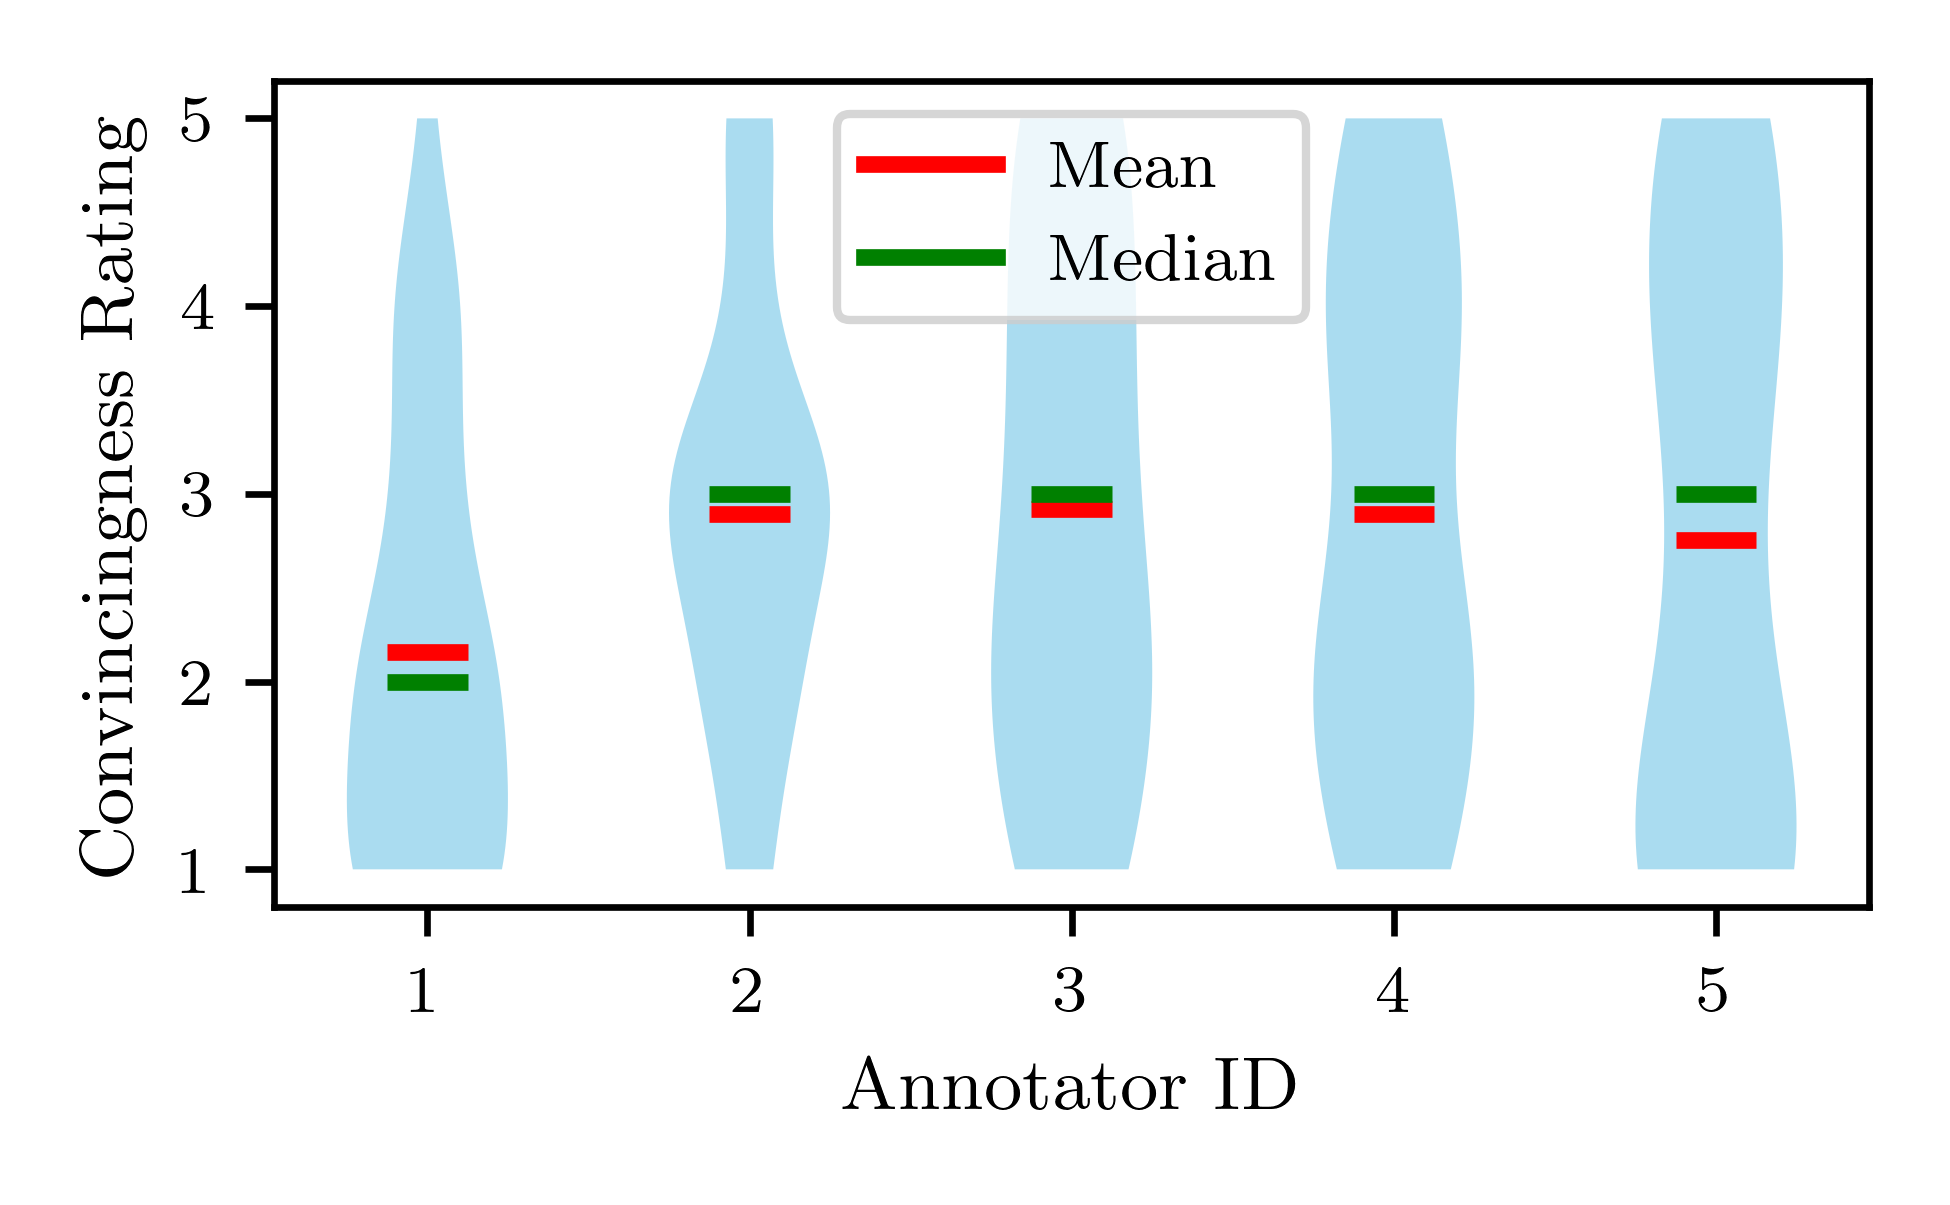
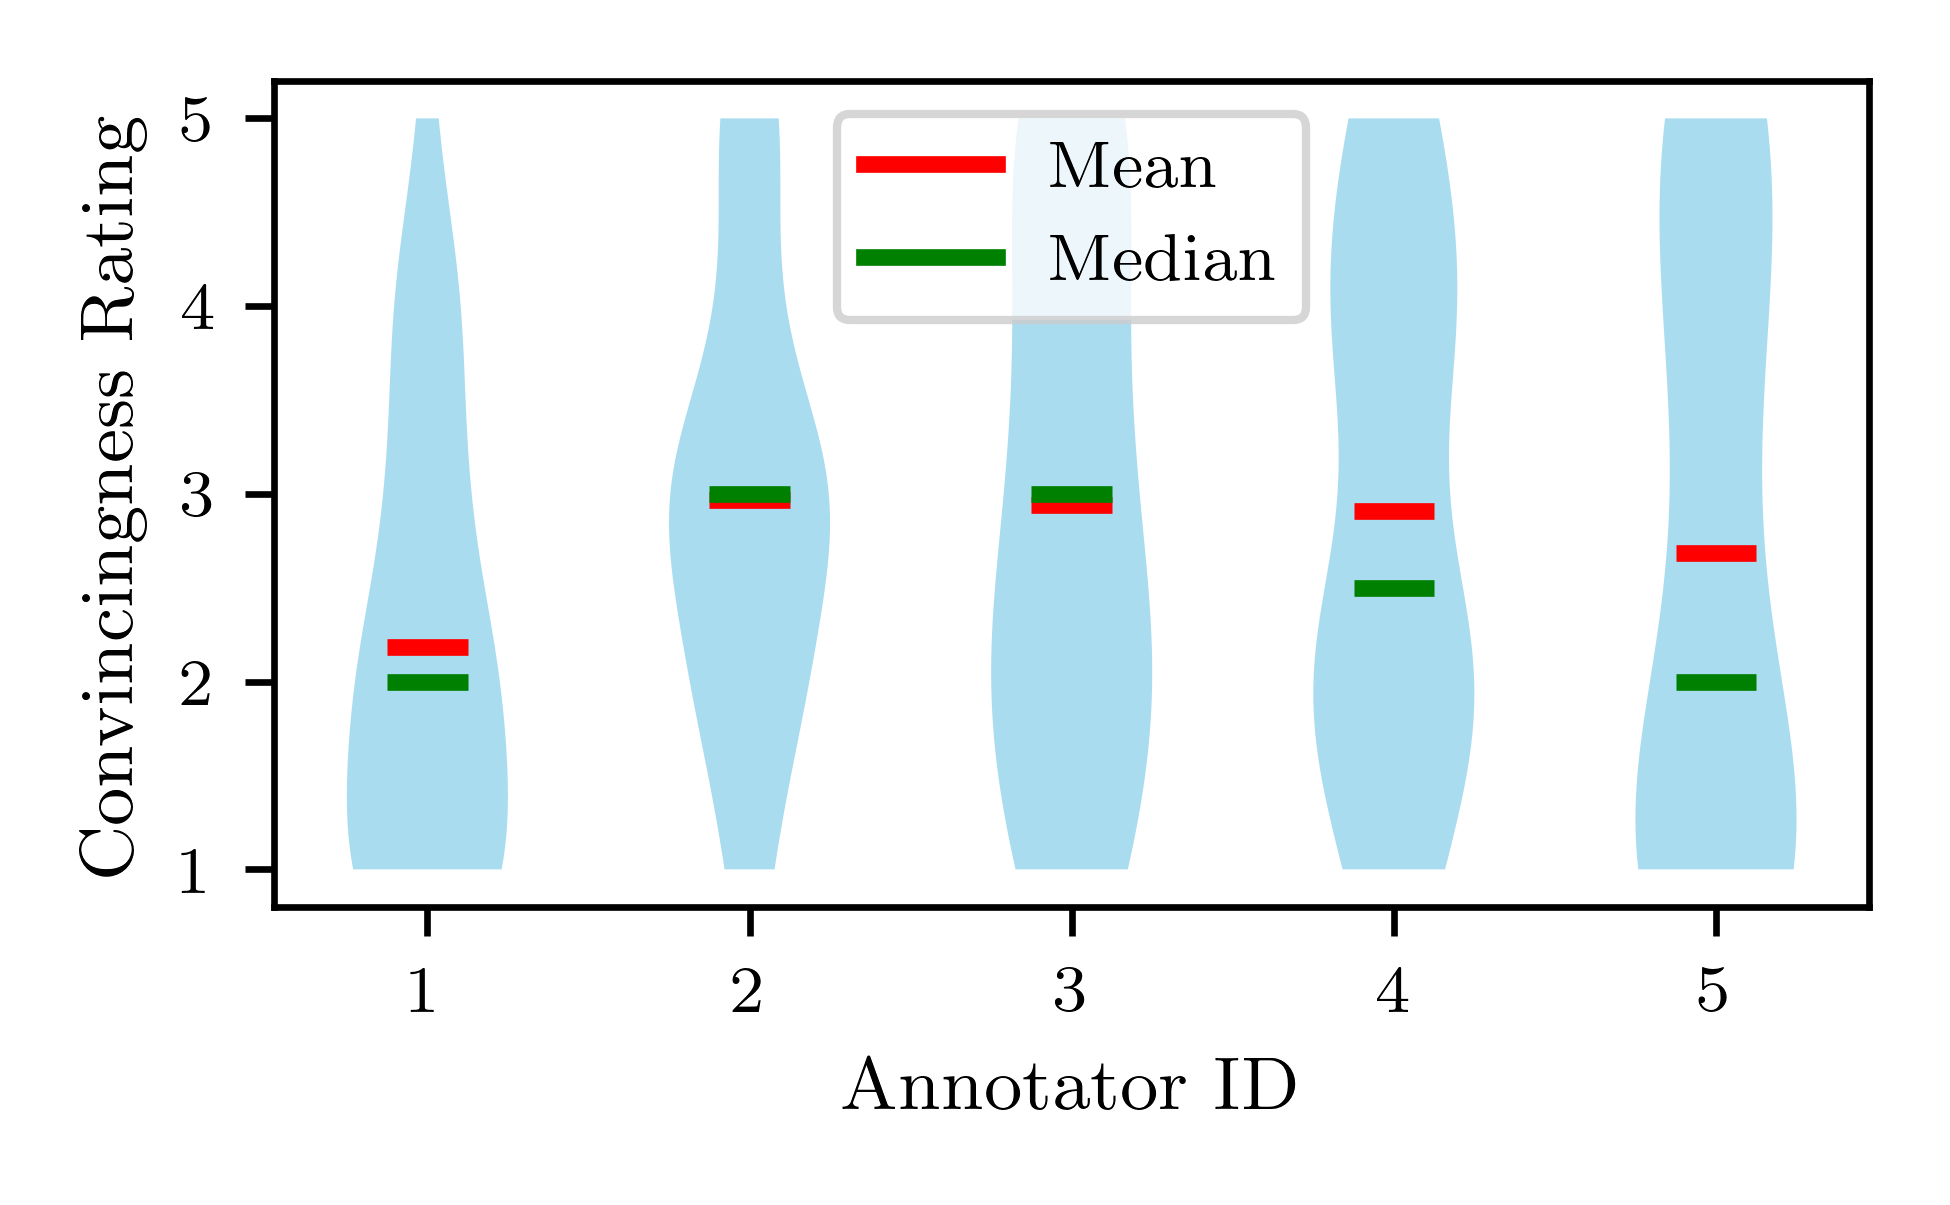
Parametrization of context_ids that should be excluded.

diff --git a/evaluation/plot.py b/evaluation/plot.py
@@ -6,6 +6,7 @@ import pandas as pd
 import scienceplots
 import krippendorff
 from typing import Optional
+import params
 
 from results import AnnotationEvaluator
 import numpy as np
@@ -202,7 +203,6 @@ def plot_unjustified_distribution(results_table, save_path=None):
     else:
         plt.show()
 
-
 def plot_comparison(results_table, llm_results_table, save_path=None):
     """
     Plot a comparison between justified (context_id=1) and unjustified (context_version=2..7) ratings.
@@ -260,7 +260,7 @@ def plot_llm_annotator_agreement_heatmap(human_table, llm_table, save_path=None)
     Requires the AnnotationEvaluator class with compute_agreement_score(annotator_col, model_col).
     """
     # Prepare labels: "Human Median" + LLM names
-    labels = ["Annotations"] + list(MODELS.keys())
+    labels = ["Human"] + list(MODELS.keys())
     n = len(labels)
 
     # Prepare ratings for each source
@@ -272,7 +272,7 @@ def plot_llm_annotator_agreement_heatmap(human_table, llm_table, save_path=None)
     for llm_id in MODELS.values():
         sources.append(llm_table[llm_id])
 
-    # Compute agreement scores for all pairs (including human median)
+    # Compute agreement scores for all pairs (including human median) using Spearman correlation
     heatmap_matrix = np.zeros((n, n))
     for i in range(n):
         for j in range(n):
@@ -280,10 +280,9 @@ def plot_llm_annotator_agreement_heatmap(human_table, llm_table, save_path=None)
             ratings_j = sources[j]
             mask = ratings_i.notna() & ratings_j.notna()
             if mask.sum() > 0 and j <= i:
-                agreement = krippendorff.alpha(
-                    reliability_data=np.vstack((ratings_i[mask], ratings_j[mask])),
-                    level_of_measurement='ordinal'
-                )
+                # Spearman correlation
+                corr, _ = stats.spearmanr(ratings_i[mask], ratings_j[mask])
+                agreement = corr
             else:
                 agreement = np.nan
             heatmap_matrix[i, j] = agreement
@@ -291,7 +290,7 @@ def plot_llm_annotator_agreement_heatmap(human_table, llm_table, save_path=None)
     df_heatmap = pd.DataFrame(heatmap_matrix, index=labels, columns=labels)
 
     fig, ax = prepare_plotting()
-    sns.heatmap(df_heatmap, annot=True, fmt=".2f", cmap="YlGnBu", ax=ax, cbar_kws={"label": "Agreement Score"}, vmin=0, vmax=1)
+    sns.heatmap(df_heatmap, annot=True, fmt=".2f", cmap="YlGnBu", ax=ax, cbar_kws={"label": r"Rank Correlation $\rho$"}, vmin=0, vmax=1)
     plt.tight_layout()
 
     if save_path:
@@ -423,10 +422,70 @@ def plot_context_type_distribution_per_annotator(human_table, llm_table=None, sa
     ax.set_ylim(0.5, 5.5)
     ax.set_yticks(np.arange(1, 6, 1))
     ax.grid(axis='y', alpha=0.5)
-    
-    
-    
 
+    if save_path:
+        fig.savefig(save_path)
+    else:
+        plt.show()
+
+def plot_rating_distribution_per_context_dimension(human_table, llm_table=None, save_path=None):
+    """
+    A violin plot for the rating distribution with each unjustified context version (e.g., context 2–7) on the x-axis. 
+    Hue represents Human vs LLM ratings if LLM data is provided.
+
+    Params:
+        human_table (pd.DataFrame): The human ratings table.
+        llm_table (pd.DataFrame, optional): The LLM ratings table.
+        save_path (str, optional): The path to save the plot.
+
+    Returns:
+        None
+    """
+    human_annotator_ids = get_annotator_ids(human_table)
+    llms = list(MODELS.keys())
+    annotator_labels = human_annotator_ids + llms
+
+    # Human ratings
+    ratings_per_context = pd.DataFrame()
+    for context_version in range(2, 8):
+        ratings = human_table[human_table['context_version'] == context_version]
+        ratings_per_context = pd.concat([ratings_per_context, pd.DataFrame({
+            'context_version': context_version - 1,  # Shift by -1
+            'rating': ratings['median_score'],
+            'source': 'Human'
+        })])
+
+    # LLM ratings
+    if llm_table is not None:
+        for context_version in range(2, 8):
+            ratings = llm_table[llm_table['context_version'] == context_version]
+            ratings_per_context = pd.concat([ratings_per_context, pd.DataFrame({
+                'context_version': context_version - 1,  # Shift by -1
+                'rating': ratings['median_score'],
+                'source': 'LLM'
+            })])
+
+    fig, ax = prepare_plotting()
+
+    # Create a violin plot
+    sns.violinplot(
+        x='context_version',
+        y='rating',
+        hue='source' if llm_table is not None else None,
+        data=ratings_per_context,
+        inner="quartile",
+        split=True if llm_table is not None else False,
+        ax=ax,
+        legend=True if llm_table is not None else False,
+        density_norm='count',
+    )
+    fig.tight_layout()
+    ax.set_xlabel("Context Version")
+    ax.set_ylabel("Convincingness Rating")
+    ax.set_ylim(0.5, 5.5)
+    ax.set_yticks(np.arange(1, 6, 1))
+    ax.grid(axis='y', alpha=0.5)
+    ax.legend() if llm_table is not None else None
 
     if save_path:
         fig.savefig(save_path)
@@ -439,7 +498,7 @@ if __name__ == "__main__":
     for dataset in datasets:
         # Human evaluation data
         human_data = pd.read_csv(f'data/{dataset}/annotations.csv', delim_whitespace=True)
-        human_evaluator = AnnotationEvaluator(human_data)
+        human_evaluator = AnnotationEvaluator(human_data, remove_context_ids=params.excluded_context_ids)
         human_data_table = human_evaluator.get_result_table()
 
         # Plot human ratings
@@ -451,7 +510,7 @@ if __name__ == "__main__":
         if dataset == 'v1':
             # LLM evaluation data
             llm_data = pd.read_csv(f'data/{dataset}/annotations_llm.csv', delim_whitespace=True)
-            llm_evaluator = AnnotationEvaluator(llm_data)
+            llm_evaluator = AnnotationEvaluator(llm_data, remove_context_ids=params.excluded_context_ids)
             llm_data_table = llm_evaluator.get_result_table()
 
             # Plot LLM ratings
@@ -460,5 +519,7 @@ if __name__ == "__main__":
             plot_llm_annotator_agreement_heatmap(human_data_table, llm_data_table, save_path=f'evaluation/{dataset}/fig/llm_annotator_agreement_heatmap.png')
             plot_context_type_distribution(human_data_table, llm_data_table, save_path=f'evaluation/{dataset}/fig/context_type_distribution.png')
             plot_context_type_distribution_per_annotator(human_data_table, llm_data_table, save_path=f'evaluation/{dataset}/fig/context_type_distribution_per_annotator.png')
+            plot_rating_distribution_per_context_dimension(human_data_table, llm_data_table, save_path=f'evaluation/{dataset}/fig/rating_distribution_per_context_dimension.png')
         else:
             plot_context_type_distribution_per_annotator(human_data_table, save_path=f'evaluation/{dataset}/fig/context_type_distribution_per_annotator.png')
+            plot_rating_distribution_per_context_dimension(human_data_table, save_path=f'evaluation/{dataset}/fig/rating_distribution_per_context_dimension.png')

diff --git a/evaluation/results.py b/evaluation/results.py
@@ -2,12 +2,16 @@ import numpy as np
 import pandas as pd
 import yaml
 import krippendorff
+import params
 
 from scipy.stats import mode, zscore, wilcoxon
 
 class AnnotationEvaluator:
-    def __init__(self, data: pd.DataFrame):
+    def __init__(self, data: pd.DataFrame, remove_context_ids: list[int] = None):
         self.data = data
+        # Remove all rows with the specified context_id if provided
+        if remove_context_ids is not None:
+            self.data = self.data[~self.data['context_version'].isin(remove_context_ids)]
         self.rating_matrix = self.init_rating_matrix()
 
     def init_rating_matrix(self):
@@ -223,13 +227,13 @@ def main():
     for dataset in datasets:
         # Human evaluation data
         human_data = pd.read_csv(f'data/{dataset}/annotations.csv', delim_whitespace=True)
-        human_evaluator = AnnotationEvaluator(human_data)
+        human_evaluator = AnnotationEvaluator(human_data, remove_context_ids=params.excluded_context_ids)  
         human_evaluator.process_data(save_path=f'evaluation/{dataset}/results_human.yaml')
 
         # LLM evaluation data
         if dataset == 'v1':
             llm_data = pd.read_csv(f'data/{dataset}/annotations_llm.csv', delim_whitespace=True)
-            llm_evaluator = AnnotationEvaluator(llm_data)
+            llm_evaluator = AnnotationEvaluator(llm_data, remove_context_ids=params.excluded_context_ids)
             llm_evaluator.process_data(save_path=f'evaluation/{dataset}/results_llm.yaml')
 
 if __name__ == "__main__":

diff --git a/evaluation/params.py b/evaluation/params.py
@@ -1,0 +1,1 @@
+excluded_context_ids = [7]
